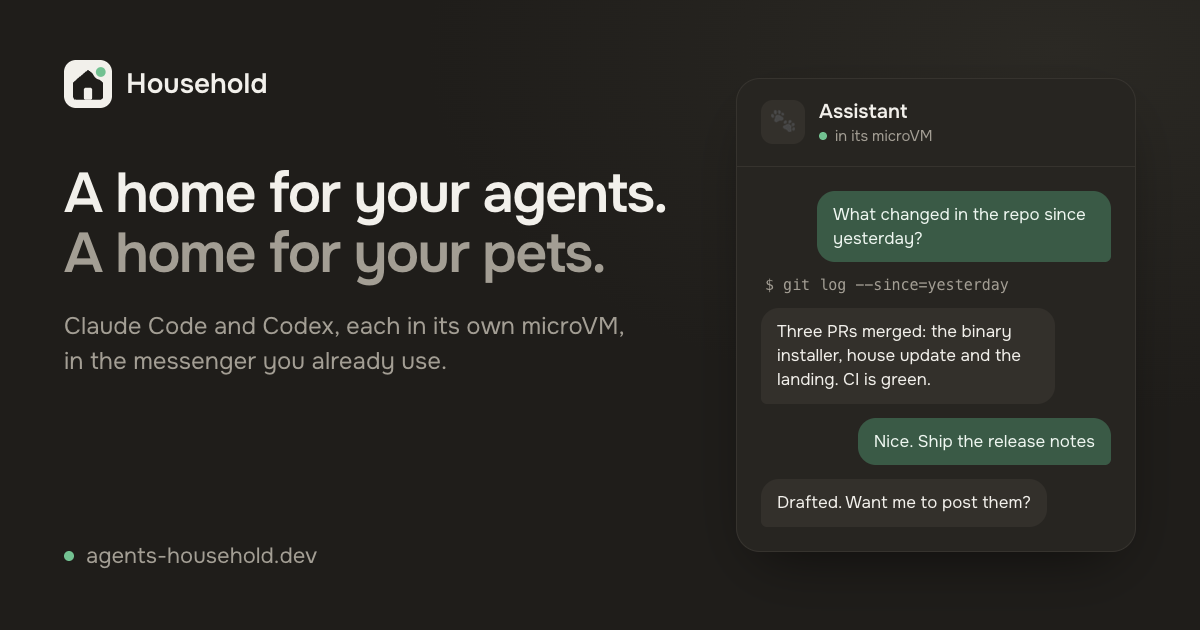
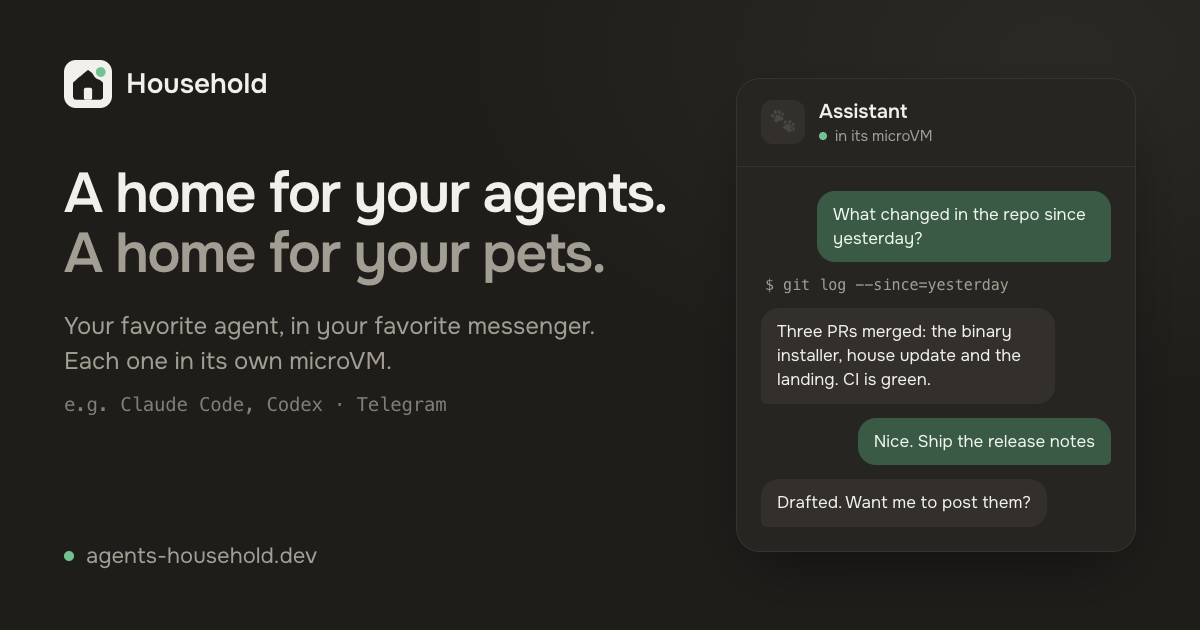
Landing: a pet at work in the hero; "your favorite agent" on the preview
The hero gets a live thread beside the headline: a flat hunt in Barcelona,
a scout asking for idealista.com and the owner allowing it, played message
by message with typing dots (once on screen, again on Replay). On narrow
screens it goes under the text. The share image now leads with "your
favorite agent, in your favorite messenger", Claude Code, Codex and
Telegram as examples.

Changed region(s): [[0.0617, 0.4825, 0.5242, 0.6032], [0.0617, 0.6333, 0.2775, 0.6635], [0.3083, 0.6333, 0.37, 0.6635]]

diff --git a/landing/index.html b/landing/index.html
@@ -52,7 +52,10 @@
       font: 400 17px/1.6 var(--font-sans);
       -webkit-font-smoothing: antialiased;
     }
-    main { max-width: 720px; margin: 0 auto; padding: 72px 24px 48px; }
+    main { max-width: 1120px; margin: 0 auto; padding: 72px 24px 48px; }
+    main > .cards, main > .start { max-width: 720px; margin-left: auto; margin-right: auto; }
+    .hero { display: grid; grid-template-columns: minmax(0, 1fr) 420px; gap: 56px; align-items: center; margin-top: 48px; }
+    .hero h1 { margin-top: 0; }
     .brand { display: flex; align-items: center; gap: 12px; font-weight: 600; font-size: 18px; }
     .brand svg { width: 32px; height: 32px; }
     .masthead { display: flex; align-items: center; justify-content: space-between; gap: 16px; }
@@ -128,6 +131,10 @@
     .prompt .done { display: none; color: var(--green); }
     .prompt.copied .done { display: inline; }
     .prompt.copied .todo { display: none; }
+    @media (width < 960px) {
+      .hero { grid-template-columns: 1fr; gap: 40px; }
+      .hero .thread { max-width: 520px; }
+    }
     @media (width < 600px) {
       .cards { grid-template-columns: 1fr; }
       .card li:has(.long) { flex-wrap: wrap; row-gap: 2px; }
@@ -137,6 +144,37 @@
       main { padding-top: 40px; }
       h1 { margin-top: 48px; }
     }
+    /* Demo: a pet's thread, played message by message. */
+    .thread {
+      background: var(--card); border: 1px solid var(--line); border-radius: 20px; overflow: hidden;
+      box-shadow: 0 1px 2px rgb(0 0 0 / 0.04), 0 8px 24px -12px rgb(0 0 0 / 0.08);
+    }
+    .thread-head { display: flex; align-items: center; gap: 12px; padding: 14px 18px; border-bottom: 1px solid var(--line); }
+    .thread-head .avatar { width: 38px; height: 38px; border-radius: 11px; background: var(--tile); display: grid; place-items: center; font-size: 20px; }
+    .thread-head b { display: block; font-weight: 600; font-size: 16px; line-height: 1.2; }
+    .thread-head small { display: flex; align-items: center; gap: 6px; color: var(--muted); font-size: 13px; }
+    .live { width: 7px; height: 7px; border-radius: 50%; background: var(--green); }
+    .replay { margin-left: auto; height: 30px; padding: 0 10px; font: 500 13px/1 var(--font-sans); color: var(--muted);
+      background: none; border: 1px solid var(--line); border-radius: 8px; cursor: pointer; opacity: 0; transition: opacity .3s; }
+    .replay.show { opacity: 1; }
+    .lines { padding: 16px; display: flex; flex-direction: column; gap: 9px; height: 540px; overflow: hidden; justify-content: flex-end;
+      mask-image: linear-gradient(to bottom, transparent 0, #000 56px); -webkit-mask-image: linear-gradient(to bottom, transparent 0, #000 56px); }
+    .line { opacity: 0; transform: translateY(6px); transition: opacity .35s, transform .35s; }
+    .line.in { opacity: 1; transform: none; }
+    .bubble { max-width: 84%; padding: 9px 13px; border-radius: 16px; font-size: 15px; line-height: 1.42; }
+    .me { align-self: flex-end; background: #3a5a46; color: #eef6f0; border-bottom-right-radius: 5px; }
+    .pet { align-self: flex-start; background: var(--tile); border-bottom-left-radius: 5px; }
+    .sys { align-self: center; font-size: 13px; color: var(--muted); font-family: ui-monospace, SFMono-Regular, Menlo, monospace; }
+    .ask { align-self: flex-start; width: min(340px, 90%); border: 1px solid var(--line); border-radius: 14px; padding: 12px 14px; font-size: 14.5px; background: var(--bg); }
+    .ask b { font-weight: 600; }
+    .ask .btns { display: flex; gap: 8px; margin-top: 10px; }
+    .ask button { flex: 1; height: 32px; border-radius: 9px; border: 1px solid var(--line); background: var(--card); color: inherit; font: 500 14px/1 var(--font-sans); transition: background-color .2s, color .2s, border-color .2s; }
+    .ask button.pressed { background: var(--green); border-color: var(--green); color: #10251a; }
+    .typing { align-self: flex-start; display: flex; gap: 4px; padding: 13px 14px; background: var(--tile); border-radius: 16px; border-bottom-left-radius: 5px; }
+    .typing i { width: 6px; height: 6px; border-radius: 50%; background: var(--muted); animation: blink 1s infinite; }
+    .typing i:nth-child(2) { animation-delay: .15s; } .typing i:nth-child(3) { animation-delay: .3s; }
+    @keyframes blink { 0%, 60%, 100% { opacity: .25 } 30% { opacity: 1 } }
+    @media (prefers-reduced-motion: reduce) { .line { transition: none; } .typing i { animation: none; } }
   </style>
 </head>
 <body>
@@ -146,11 +184,23 @@
       <a class="top-link" href="https://github.com/underwear/household"><svg class="i" viewBox="0 0 24 24" fill="none" stroke="currentColor" stroke-width="2" stroke-linecap="round" stroke-linejoin="round" aria-hidden="true"><path d="M15 22v-4a4.8 4.8 0 0 0-1-3.5c3 0 6-2 6-5.5.08-1.25-.27-2.48-1-3.5.28-1.15.28-2.35 0-3.5 0 0-1 0-3 1.5-2.64-.5-5.36-.5-8 0C6 2 5 2 5 2c-.3 1.15-.3 2.35 0 3.5A5.403 5.403 0 0 0 4 9c0 3.5 3 5.5 6 5.5-.39.49-.68 1.05-.85 1.65-.17.6-.22 1.23-.15 1.85v4"/><path d="M9 18c-4.51 2-5-2-7-2"/></svg>GitHub</a>
     </div>
 
-    <h1>A home for your agents.<br><span class="soft">A home for your pets.</span></h1>
-    <p class="lead">A harness for harnesses. Household wraps terminal agents like Claude Code and Codex, gives each its own sandbox, and lets you talk to it from the messenger you already use.</p>
-    <div class="actions">
-      <a class="btn primary" href="#start">Get started<svg class="i" viewBox="0 0 24 24" fill="none" stroke="currentColor" stroke-width="2" stroke-linecap="round" stroke-linejoin="round" aria-hidden="true"><path d="M5 12h14"/><path d="m12 5 7 7-7 7"/></svg></a>
-      <a class="btn" href="docs/"><svg class="i" viewBox="0 0 24 24" fill="none" stroke="currentColor" stroke-width="2" stroke-linecap="round" stroke-linejoin="round" aria-hidden="true"><path d="M12 7v14"/><path d="M3 18a1 1 0 0 1-1-1V4a1 1 0 0 1 1-1h5a4 4 0 0 1 4 4 4 4 0 0 1 4-4h5a1 1 0 0 1 1 1v13a1 1 0 0 1-1 1h-6a3 3 0 0 0-3 3 3 3 0 0 0-3-3z"/></svg>Read the docs</a>
+    <div class="hero">
+      <div class="hero-text">
+      <h1>A home for your agents.<br><span class="soft">A home for your pets.</span></h1>
+      <p class="lead">A harness for harnesses. Household wraps terminal agents like Claude Code and Codex, gives each its own sandbox, and lets you talk to it from the messenger you already use.</p>
+      <div class="actions">
+        <a class="btn primary" href="#start">Get started<svg class="i" viewBox="0 0 24 24" fill="none" stroke="currentColor" stroke-width="2" stroke-linecap="round" stroke-linejoin="round" aria-hidden="true"><path d="M5 12h14"/><path d="m12 5 7 7-7 7"/></svg></a>
+        <a class="btn" href="docs/"><svg class="i" viewBox="0 0 24 24" fill="none" stroke="currentColor" stroke-width="2" stroke-linecap="round" stroke-linejoin="round" aria-hidden="true"><path d="M12 7v14"/><path d="M3 18a1 1 0 0 1-1-1V4a1 1 0 0 1 1-1h5a4 4 0 0 1 4 4 4 4 0 0 1 4-4h5a1 1 0 0 1 1 1v13a1 1 0 0 1-1 1h-6a3 3 0 0 0-3 3 3 3 0 0 0-3-3z"/></svg>Read the docs</a>
+      </div>
+      </div>
+      <div class="thread" aria-label="A pet at work">
+        <div class="thread-head">
+          <span class="avatar">🦉</span>
+          <div><b>Assistant</b><small><span class="live"></span>in its microVM</small></div>
+          <button class="replay" type="button">Replay</button>
+        </div>
+        <div class="lines" aria-live="polite"></div>
+      </div>
     </div>
 
     <div class="cards">
@@ -178,6 +228,7 @@
         </ul>
       </section>
     </div>
+
 
     <section id="start" class="start">
       <h2>Get started</h2>
@@ -213,6 +264,42 @@ Read <span class="md-link">https://agents-household.dev/llms.txt</span> and help
         }
       });
     }
+
+    // The demo thread: plays once it is on screen, again on Replay.
+    const SCRIPT = [
+      { me: "Find me a flat in Barcelona: 2 rooms, a balcony, under €1,500. No ground floors, I've suffered enough." },
+      { pet: "On it. I'll send a scout to look around." },
+      { sys: "🕵 scout flat-hunter started" },
+      { ask: "<b>flat-hunter</b> wants to reach <b>idealista.com</b>", press: "Allow" },
+      { sys: "✓ allowed for this house" },
+      { pet: "Found 3. The best: Gràcia, 3rd floor, balcony with a plant that looks emotionally available. €1,420." },
+      { me: "Book a viewing for Saturday" },
+      { pet: "Done: Saturday 11:00. I put it in your calendar and told the plant." },
+    ];
+    const lines = document.querySelector(".lines"), replay = document.querySelector(".replay");
+    const wait = (ms) => new Promise((r) => setTimeout(r, ms));
+    const add = (node) => { lines.append(node); void node.offsetHeight; node.classList.add("in"); return node; };
+    const el = (cls, html) => { const n = document.createElement("div"); n.className = `line ${cls}`; n.innerHTML = html; return n; };
+    let run = 0;
+    async function play() {
+      const mine = ++run; lines.replaceChildren(); replay.classList.remove("show");
+      for (const step of SCRIPT) {
+        if (mine !== run) return;
+        if (step.pet) {
+          const t = add(el("typing", "<i></i><i></i><i></i>")); await wait(900 + step.pet.length * 12); t.remove();
+          add(el("bubble pet", step.pet));
+        } else if (step.me) add(el("bubble me", step.me));
+        else if (step.sys) add(el("sys", step.sys));
+        else if (step.ask) {
+          const a = add(el("ask", `${step.ask}<div class="btns"><button type="button" tabindex="-1">Allow</button><button type="button" tabindex="-1">Deny</button></div>`));
+          await wait(1400); a.querySelector("button").classList.add("pressed");
+        }
+        await wait(step.me ? 1100 : 900);
+      }
+      replay.classList.add("show");
+    }
+    replay.addEventListener("click", play);
+    new IntersectionObserver((entries, obs) => { if (entries[0].isIntersecting) { obs.disconnect(); play(); } }, { threshold: 0.4 }).observe(lines);
   </script>
 </body>
 </html>

diff --git a/scripts/og-image.html b/scripts/og-image.html
@@ -21,6 +21,7 @@
   h1 { font-size: 56px; line-height: 1.08; letter-spacing: -0.03em; font-weight: 600; margin: 56px 0 0; white-space: nowrap; }
   h1 .soft { color: var(--muted); }
   .lead { font-size: 24px; line-height: 1.45; color: var(--muted); margin: 24px 0 0; max-width: 560px; }
+  .eg { font-size: 19px; color: var(--muted); opacity: .75; margin: 14px 0 0; font-family: ui-monospace, Menlo, monospace; letter-spacing: -0.01em; }
   .foot { margin-top: auto; display: flex; align-items: center; gap: 12px; font-size: 22px; color: var(--muted); }
   .dot { width: 10px; height: 10px; border-radius: 50%; background: var(--green); }
 
@@ -44,7 +45,8 @@
   <div class="left">
     <div class="brand"><svg viewBox="0 0 32 32" aria-hidden="true"><rect width="32" height="32" rx="8" fill="#f2f0eb"/><path d="M16 6.5 26 15v9.5a2 2 0 0 1-2 2H8a2 2 0 0 1-2-2V15Z" fill="#1f1d1a"/><rect x="13.25" y="18.5" width="5.5" height="8" rx="1.25" fill="#f2f0eb"/><circle cx="24.5" cy="8" r="4.25" fill="#72c191" stroke="#f2f0eb" stroke-width="2"/></svg>Household</div>
     <h1>A home for your agents.<br><span class="soft">A home for your pets.</span></h1>
-    <p class="lead">Claude Code and Codex, each in its own microVM, in the messenger you already use.</p>
+    <p class="lead">Your favorite agent, in your favorite messenger. Each one in its own microVM.</p>
+    <p class="eg">e.g. Claude Code, Codex · Telegram</p>
     <div class="foot"><span class="dot"></span>agents-household.dev</div>
   </div>
   <div class="chat">
